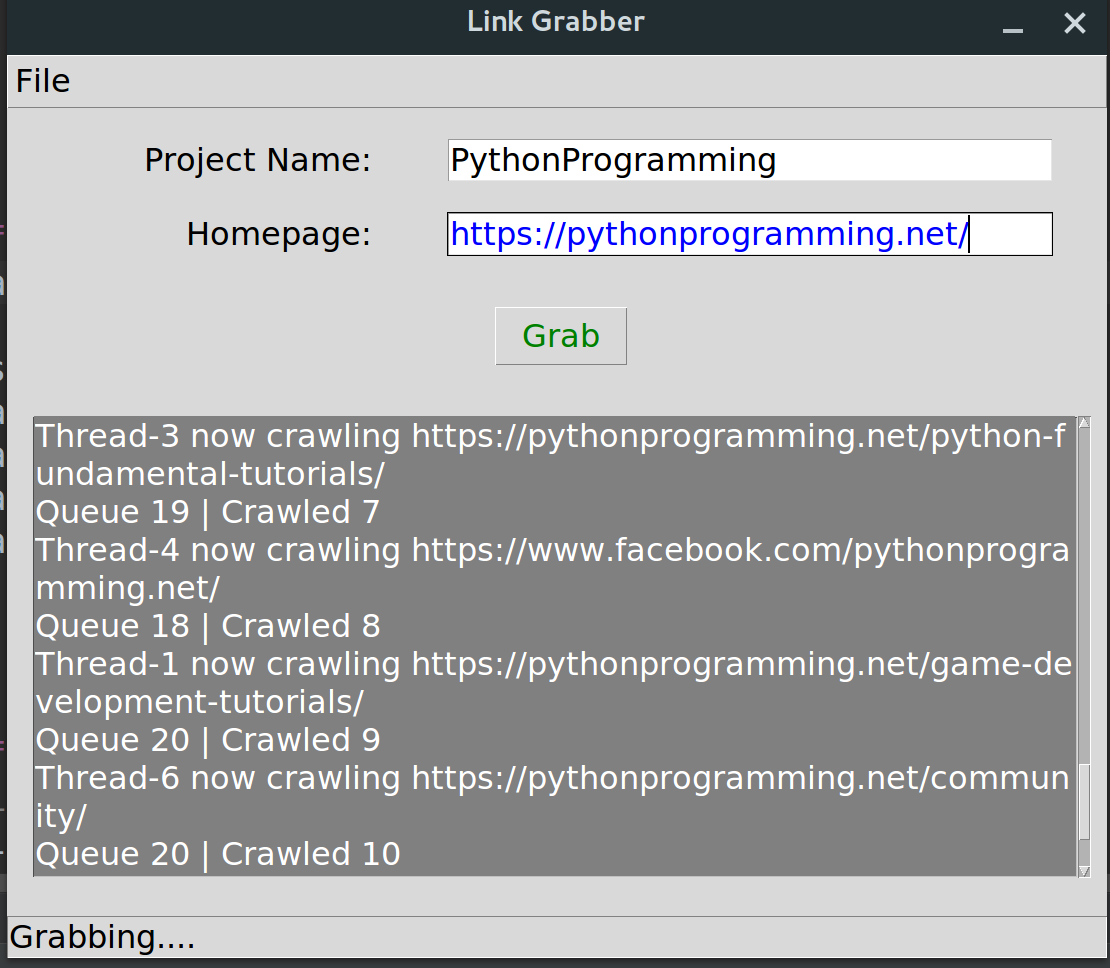
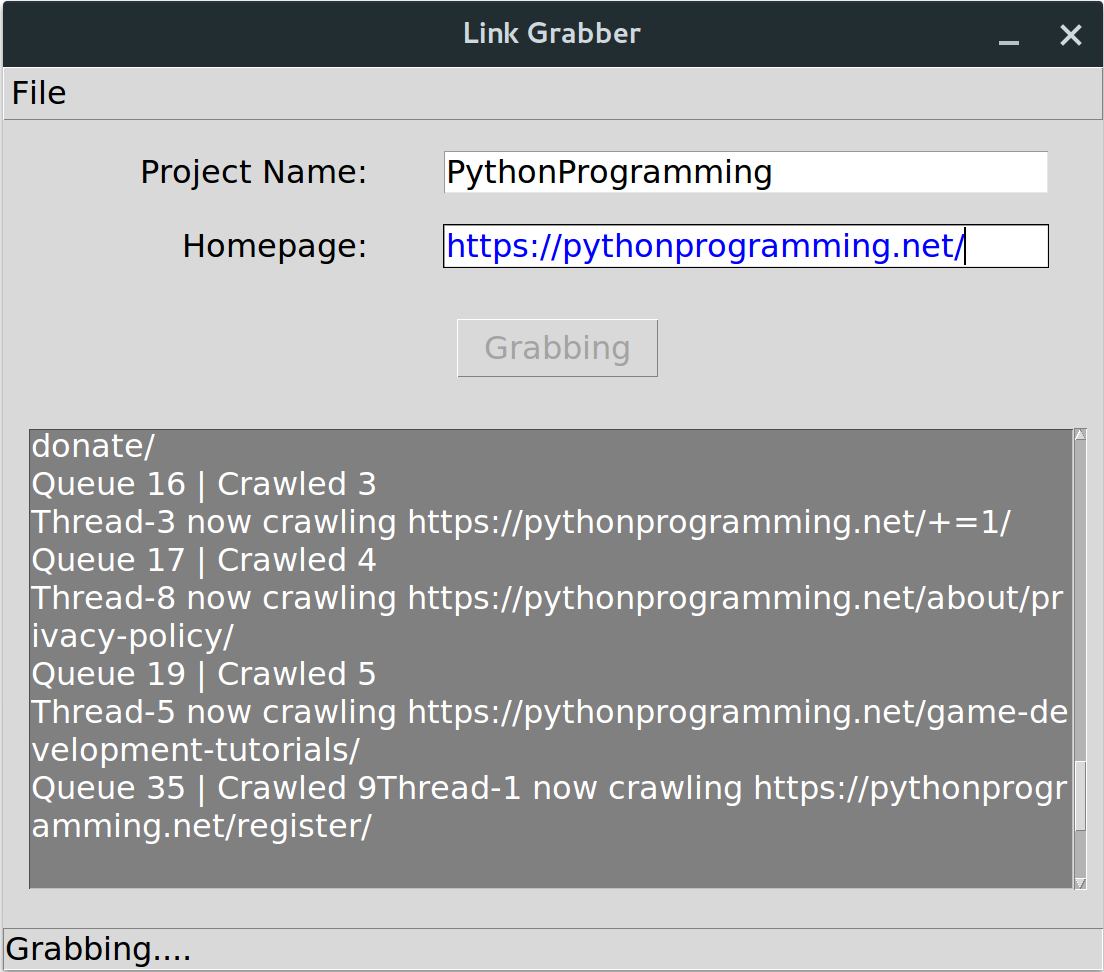
Update
*disable button while grabbing

diff --git a/Link Crawler/gui.py b/Link Crawler/gui.py
@@ -70,7 +70,9 @@ class App:
         self.url_entry = tk.Entry(self.top_frame, fg="blue", width=30, textvariable=self.stringvar2)
         self.url_entry.grid(row=1, column=1)
 
-        self.button1 = tk.Button(self.top_frame, text="Grab", fg="green", state="disabled", command=lambda: grab(self))
+        self.btn_text = tk.StringVar()
+        self.button1 = tk.Button(self.top_frame, textvariable=self.btn_text, fg="green", state="disabled", command=lambda: grab(self))
+        self.btn_text.set("Grab")
         self.button1.grid(row=2, columnspan=2, pady=50)
 
         self.text = tkst.ScrolledText(self.top_frame, height=12, width=52, relief="sunken", bg="grey", fg="white")
@@ -103,6 +105,8 @@ class App:
 
 
 def grab(app):
+    app.btn_text.set("Grabbing")
+    app.button1.config(state="disabled")
     project_name = app.get_project_name()
     homepage = app.get_homepage()
     domain_name = get_domain_name(homepage)
@@ -115,7 +119,8 @@ def grab(app):
     crawl(queued_file)
     print('Completed')
     app.status["text"] = 'Completed.'
-
+    app.btn_text.set("Grab")
+    app.button1.config(state="normal")
 
 def main():
     root = tk.Tk()
